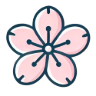
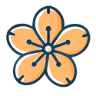
Prepare amber Blossom 1.0.0 for Claude review

Changed region(s): [[0.0938, 0.0938, 0.9375, 0.875]]

diff --git a/plugins/blossom/skills/blossom/SKILL.md b/plugins/blossom/skills/blossom/SKILL.md
@@ -44,7 +44,8 @@ claude.ai at this same endpoint, Claude may offer that connector in place of
 the plugin's server. Use only tools advertised by that connection. Respect the
 host's permission prompts and stop if a tool is unavailable.
 
-When previewing a repository, look up its clone URL in `quickstart_list`.
+When previewing a repository, look for its clone URL with `catalog_list`
+filtered to kind quickstart.
 Match the owner, repository and subfolder. If several examples share the
 repository, ask which one. Pass the matching `quickstart` key to
 `app_plan_preview` and let Blossom supply the defaults. For other repos,

diff --git a/plugins/blossom/skills/blossom/references/workflows.md b/plugins/blossom/skills/blossom/references/workflows.md
@@ -24,7 +24,8 @@ diagnosis request alone does not authorize rollback, restart, or redeploy.
 ## Preview and deploy
 
 Collect the Git repository, intended Location, Environment, and required
-Services. `quickstart_list` can supply an existing starting point. Consult
+Services. Use `catalog_list` to find apps or filter to `kind: quickstart` to
+choose an App Plan starter. `catalog_show` gives its guide and deploy prompt. Consult
 the `app_plan_preview` input schema, construct the plan, then preview it without
 saving. Summarize resources and Capacity effect. Stop after the preview if
 that is all the user requested.

diff --git a/plugins/blossom/skills/deploy/SKILL.md b/plugins/blossom/skills/deploy/SKILL.md
@@ -13,7 +13,7 @@ Follow the Blossom skill in this plugin, including its rules for changes.
    access.
 2. Resolve the target from $ARGUMENTS:
    - A Git repository, or nothing in a project with a Git remote: match the repository
-     and subfolder in `quickstart_list` as described in the Blossom skill.
+     and subfolder with `catalog_list` filtered to kind quickstart.
      Preview the matching key or the custom repository configuration using
      `app_plan_preview`. Identify any assumptions before seeking approval.
    - An existing Environment: inspect it with `environment_show` and
